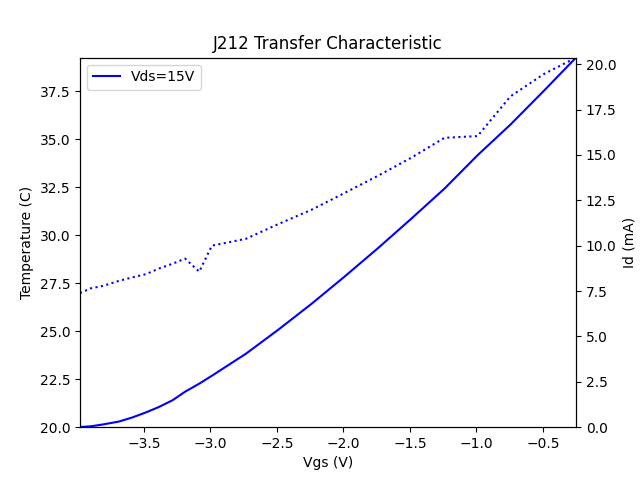
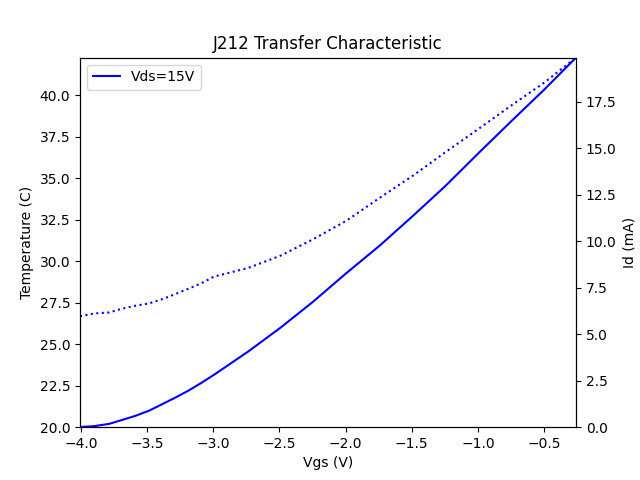
u

diff --git a/curvetracer/curvetracer.py b/curvetracer/curvetracer.py
@@ -9,7 +9,7 @@ import sys
 import time
 from typing import List, Type, Tuple
 
-from .common import DAQChannel, PSChannel, VChannel, IChannel, TChannel
+from .common import PSChannel, VChannel, IChannel, TChannel
 
 def median(f):
     v = []
@@ -43,56 +43,29 @@ def run_oc(output_file,
         ps_vgs.state = True
         ps_vds.state = True
 
-    @contextmanager
-    def relay_control(ch, delay_after_ps_on):
-        if isinstance(ch, DAQChannel):
-            # de-energize before relay operation
-            if not isinstance(ch, TChannel):
-                ps_off()
-            ch.close()
-            if not isinstance(ch, TChannel):
-                ps_on()
-            # stabilize
-            time.sleep(delay_after_ps_on)
-            yield ch
-            if not isinstance(ch, TChannel):
-                ps_off()
-        else:
-            yield ch
-
     ps_off()
     ps_vds.current = max_id
     ps_vgs.current = max_ig
     try:
         for vgs in vgs_range:
             ps_vgs.voltage = vgs
-            ps_off()
-            with relay_control(dmm_t, delay_after_ps_on) as ch:
-                while True:
-                    t_value = median(lambda: ch.temperature)
-                    if t_value < tcon:
-                        break
-                    else:
-                        print('%fC' % t_value, file=sys.stderr)
-                        time.sleep(2)
+            while True:
+                t_value = median(lambda: dmm_t.temperature)
+                if t_value < tcon:
+                    break
+                else:
+                    print('%fC' % t_value, file=sys.stderr)
+                    time.sleep(2)
 
             vds = vds_start
             while vds <= vds_stop:
                 ps_vds.voltage = vds
 
-                with relay_control(dmm_id, delay_after_ps_on) as ch:
-                    id_value = median(lambda: ch.current)
-
-                with relay_control(dmm_vds, delay_after_ps_on) as ch:
-                    vds_value = median(lambda: ch.voltage)
-
-                with relay_control(dmm_vgs, delay_after_ps_on) as ch:
-                    vgs_value = median(lambda: ch.voltage)
-
-                with relay_control(dmm_t, delay_after_ps_on) as ch:
-                    t_value = median(lambda: ch.temperature)
-
-                # turn off to give some time to cool down
+                ps_on()
+                id_value = median(lambda: dmm_id.current)
+                vds_value = median(lambda: dmm_vds.voltage)
+                vgs_value = median(lambda: dmm_vgs.voltage)
+                t_value = median(lambda: dmm_t.temperature)
                 ps_off()
 
                 print('%g %g %g %g %g %g' % (-vgs,
@@ -126,7 +99,6 @@ def run_oc(output_file,
 
                 if t_value > tmax:
                     print('powering off to cool down...', file=sys.stderr)
-                    ps_off()
                     while t_value > tcon:
                         t_value = dmm_t.temperature
                         print('%fC' % t_value, file=sys.stderr)
@@ -165,23 +137,7 @@ def run_tc(output_file,
     def ps_on():
         ps_vgs.state = True
         ps_vds.state = True
-
-    @contextmanager
-    def relay_control(ch, delay_after_ps_on):
-        if isinstance(ch, DAQChannel):
-            # de-energize before relay operation
-            if not isinstance(ch, TChannel):
-                ps_off()
-            ch.close()
-            if not isinstance(ch, TChannel):
-                ps_on()
-            # stabilize
-            time.sleep(delay_after_ps_on)
-            yield ch
-            if not isinstance(ch, TChannel):
-                ps_off()
-        else:
-            yield ch
+        time.sleep(delay_after_ps_on)
 
     ps_off()
     ps_vds.current = max_id
@@ -189,34 +145,23 @@ def run_tc(output_file,
     try:
         for vds in vds_range:
             ps_vds.voltage = vds
-            ps_off()
-            with relay_control(dmm_t, delay_after_ps_on) as ch:
-                while True:
-                    t_value = median(lambda: ch.temperature)
-                    if t_value < tcon:
-                        break
-                    else:
-                        print('%fC' % t_value, file=sys.stderr)
-                        time.sleep(2)
+            while True:
+                t_value = median(lambda: dmm_t.temperature)
+                if t_value < tcon:
+                    break
+                else:
+                    print('%fC' % t_value, file=sys.stderr)
+                    time.sleep(2)
 
             vgs = vgs_start
             while vgs >= vgs_stop:
                 ps_vgs.voltage = vgs
 
-                with relay_control(dmm_id, delay_after_ps_on) as ch:
-                    id_value = median(lambda: ch.current)
-
-                with relay_control(dmm_vds, delay_after_ps_on) as ch:
-                    vds_value = median(lambda: ch.voltage)
-
-                with relay_control(dmm_vgs, delay_after_ps_on) as ch:
-                    vgs_value = median(lambda: ch.voltage)
-
-                if dmm_t is not None:
-                    with relay_control(dmm_t, delay_after_ps_on) as ch:
-                        t_value = median(lambda: ch.temperature)
-
-                # turn off to give some time to cool down
+                ps_on()
+                id_value = median(lambda: dmm_id.current)
+                vds_value = median(lambda: dmm_vds.voltage)
+                vgs_value = median(lambda: dmm_vgs.voltage)
+                t_value = median(lambda: dmm_t.temperature)
                 ps_off()
 
                 print('%g %g %g %g %g %g' % (vds,
@@ -248,14 +193,12 @@ def run_tc(output_file,
                                              t_value),
                       file=output_file)
 
-                if dmm_t is not None:
-                    if t_value > tmax:
-                        print('powering off to cool down...', file=sys.stderr)
-                        ps_off()
-                        while t_value > tcon:
-                            t_value = dmm_t.temperature
-                            print('%fC' % t_value, file=sys.stderr)
-                            time.sleep(2)
+                if t_value > tmax:
+                    print('powering off to cool down...', file=sys.stderr)
+                    while t_value > tcon:
+                        t_value = median(dmm_t.temperature)
+                        print('%fC' % t_value, file=sys.stderr)
+                        time.sleep(2)
 
                 if vgs > vgs_fine_stop:
                     vgs = vgs - vgs_fine_step

diff --git a/curvetracer/daq6510.py b/curvetracer/daq6510.py
@@ -8,18 +8,9 @@ import vxi11
 
 from .common import WrongInstrumentException
 from .common import VChannel, IChannel, TChannel
-from .common import DAQChannel, ScpiCommonCommands
+from .common import ScpiCommonCommands
 
-class DAQ6510Channel(DAQChannel):
-    def open(self)->None:
-        self.instrument.write('ROUTE:CHANNEL:OPEN (@%d)' % self.chno)
-        self.device.wai()
-
-    def close(self)->None:
-        self.instrument.write('ROUTE:CHANNEL:CLOSE (@%d)' % self.chno)
-        self.device.wai()
-
-class DAQ6510VChannel(VChannel, DAQ6510Channel):
+class DAQ6510VChannel(VChannel):
     def __init__(self, device, chno:int)->None:
         self.device = device
         self.instrument = device.instrument
@@ -37,9 +28,11 @@ class DAQ6510VChannel(VChannel, DAQ6510Channel):
 
     @property
     def voltage(self)->float:
+        self.instrument.write('ROUTE:CHANNEL:CLOSE (@%d)' % self.chno)
+        self.device.wai()
         return float(self.instrument.ask('MEASURE:VOLTAGE:DC?'))
 
-class DAQ6510IChannel(IChannel, DAQ6510Channel):
+class DAQ6510IChannel(IChannel):
     def __init__(self, device, chno:int)->None:
         self.device = device
         self.instrument = device.instrument
@@ -57,9 +50,11 @@ class DAQ6510IChannel(IChannel, DAQ6510Channel):
 
     @property
     def current(self)->float:
+        self.instrument.write('ROUTE:CHANNEL:CLOSE (@%d)' % self.chno)
+        self.device.wai()
         return float(self.instrument.ask('MEASURE:CURRENT:DC?'))
 
-class DAQ6510TChannel(TChannel, DAQ6510Channel):
+class DAQ6510TChannel(TChannel):
     def __init__(self, device, chno:int, sensor_type:str)->None:
         self.device = device
         self.instrument = device.instrument
@@ -92,6 +87,8 @@ class DAQ6510TChannel(TChannel, DAQ6510Channel):
 
     @property
     def temperature(self)->float:
+        self.instrument.write('ROUTE:CHANNEL:CLOSE (@%d)' % self.chno)
+        self.device.wai()
         return float(self.instrument.ask('MEASURE:TEMPERATURE?'))
 
 class DAQ6510(ScpiCommonCommands):

diff --git a/curvetracer/__main__.py b/curvetracer/__main__.py
@@ -7,7 +7,7 @@ import configparser
 import sys
 from typing import List, Type, Tuple
 
-from .common import DAQChannel, PSChannel, VChannel, IChannel, TChannel
+from .common import PSChannel, VChannel, IChannel, TChannel
 from .common import ConfigException
 from .curvetracer import run_oc, run_tc
 from .daq6510 import DAQ6510

diff --git a/curvetracer/common.py b/curvetracer/common.py
@@ -35,13 +35,6 @@ class PSChannel:
     def state(self, v:bool)->None:
         pass
 
-class DAQChannel:
-    def open(self)->None:
-        pass
-
-    def close(self)->None:
-        pass
-
 class VChannel:
     @property
     def voltage(self)->float:

diff --git a/README.md b/README.md
@@ -8,7 +8,9 @@ Depending on the characteristic requested, Vgs and/or Vds supply is programmed a
 
 The temperature of JFET is monitored using a thermocouple and the upper bound is limited to a configurable value (tmax). Additionally, the temperature of JFET is waited to go below a configurable value (tcon) before the trace of a curve is started. This is to eliminate the difference among traces due to thermal drift. However, some curves are by nature increase the temperature of device more than others, this is not controlled (other than tmax check).
 
-Each measurement is made 3 times and the median is selected. This is to eliminate outliers that can happen due to stabilization need. To maximize the lifetime of relays in the DAQ, the power is set to off between measurements.
+Each measurement is made 3 times and the median is selected. This is to eliminate outliers that can happen if power is not stabilized yet.
+
+Because the switching is low voltage and low current, it has a low impact on the relay lifetime in DAQ module.
 
 ## extending hardware support
 
@@ -55,6 +57,14 @@ python -m curvetracer -c <config_file> oc
 
 On a successful run, this creates <device_name_in_config>.oc file containing the data.
 
+While running, it prints the programmed and measured data in this format:
+
+```
+Vgs Vds Id_measured Vds_measured Vgs_measured T_measured
+```
+
+If T > tmax, it starts printing temperature until it returns back to tcon.
+
 ## transfer characteristic (Id vs. Vgs)
 
 Similar to output characteristic:
@@ -64,6 +74,14 @@ python -m curvetracer -c <config_file> oc
 ```
 
 On a successful run, this creates <device_name_in_config>.tc file containing the data.
+
+While running, it prints the programmed and measured data in this format:
+
+```
+Vds Vgs Id_measured Vds_measured Vgs_measured T_measured
+```
+
+If T > tmax, it starts printing temperature until it returns back to tcon.
 
 ## plot
 
